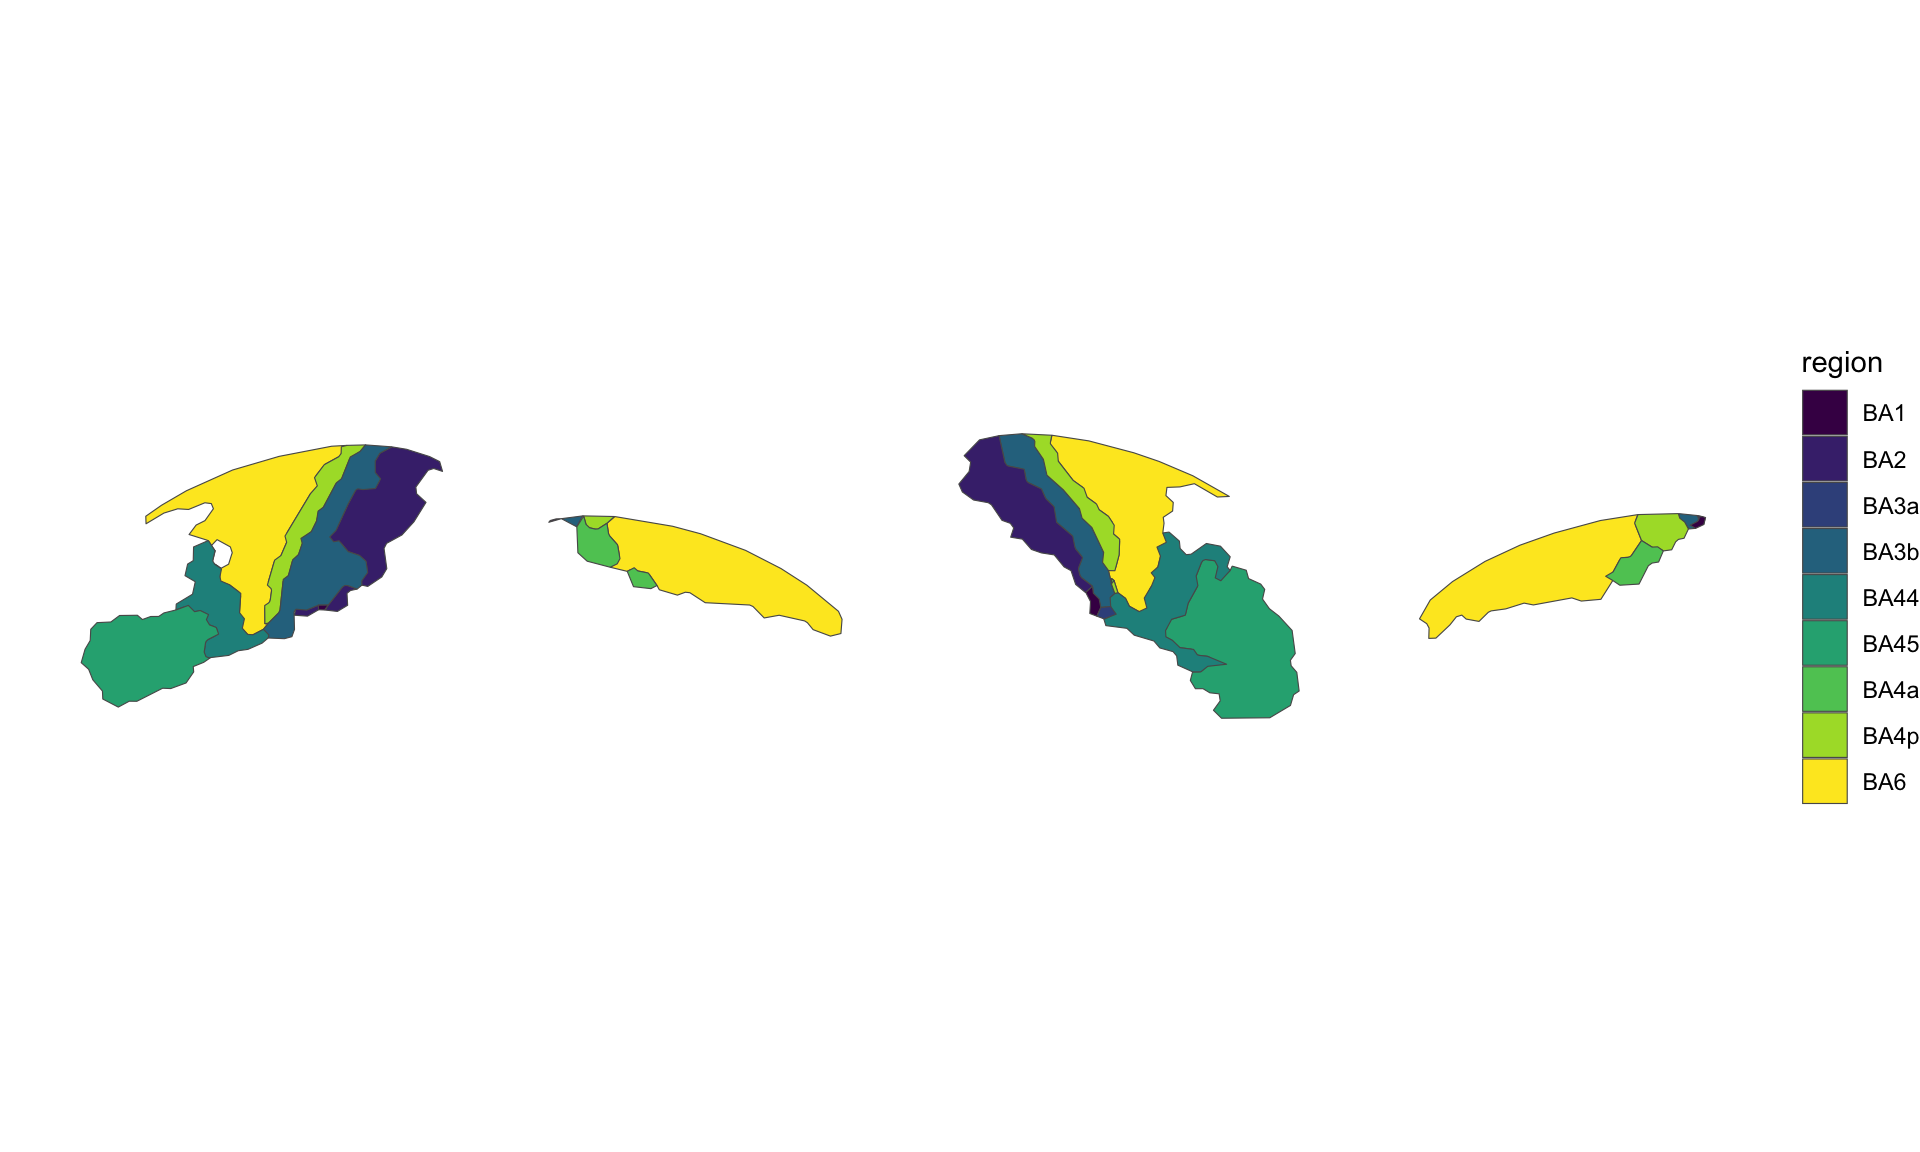
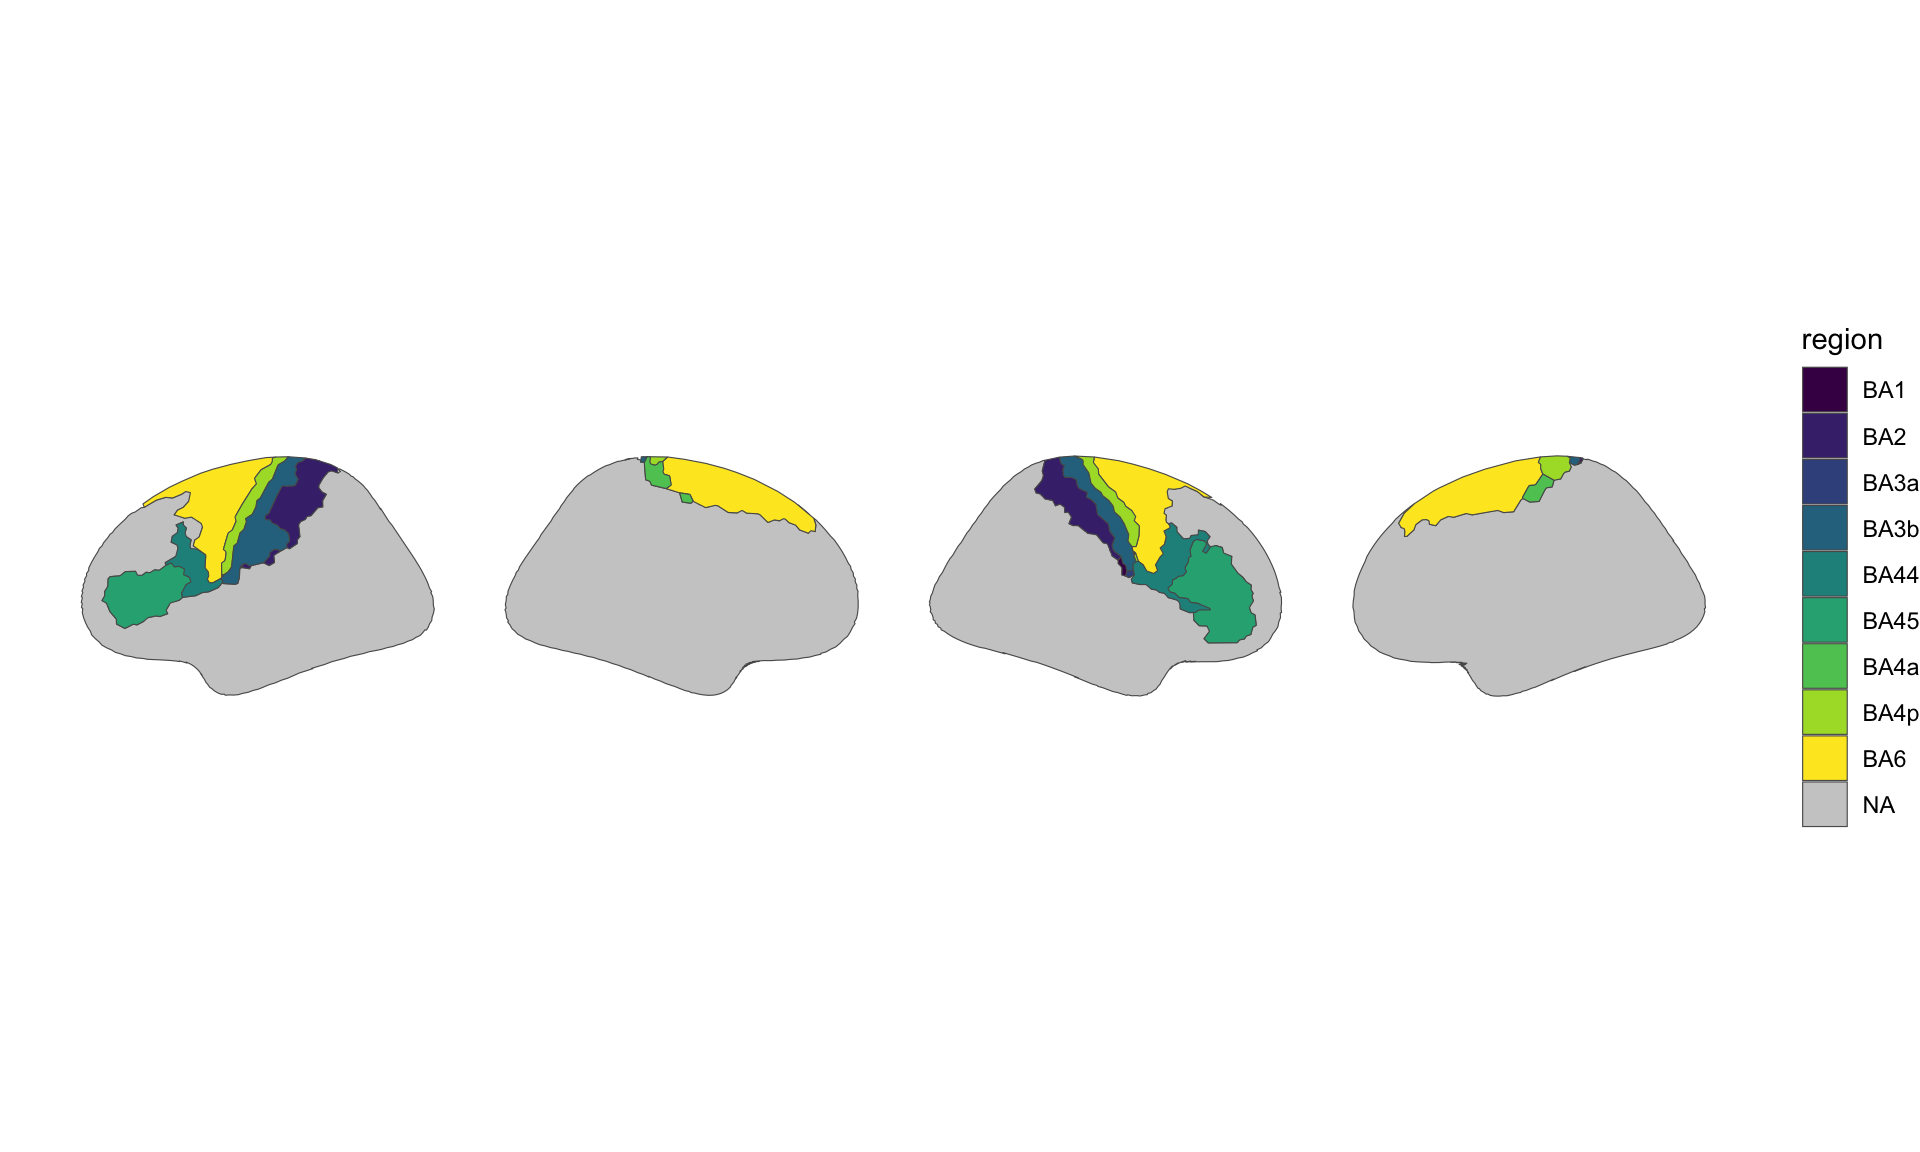
feat: give a sparse cortical parcellation a silhouette to sit on (#287)
Closes #285.

A parcellation built from a handful of `.label` files covers a fraction of the
mantle, and every other vertex was `NA`. An `NA` vertex produces no polygon, so
the atlas was a few shapes floating in empty space with nothing to say where on
the brain they sat.

Every vertex no label claims now becomes `lh_cortex` / `rh_cortex`, drawn behind
the parcellation. It is context rather than a region: never added to `$core`, so
it carries no colour and no legend entry. The label tutorial is re-knitted and
its figures show the difference.

Only where there is something to appear for: an annotation covering the mantle
via a medial-wall region is unchanged; a parcellation covering nothing is too,
so a file that failed to read still aborts rather than rendering as a plausible
grey brain; and a parcellation already using the name keeps it, with a warning,
since FreeSurfer ships `lh.cortex.label`.

The silhouette had to be `lh_cortex` rather than the volumetric `cortex_left`:
ggseg.formats reads a label's hemisphere off its prefix when laying views out,
and a label it cannot parse becomes a view of its own. `context_pattern()` was
therefore matching nothing on any surface atlas, so `exclude = context_pattern()`
in four tutorials excluded nothing; it now covers both spellings.

A sparse parcellation takes 1.6s rather than 0.2s, the silhouette being most of
the visible mesh. The projection always uses the one bundled 10,242-vertex mesh,
[…]

Changed region(s): [[0.0312, 0.375, 0.9062, 0.625], [0.9375, 0.2812, 1.0, 0.7188]]

diff --git a/NEWS.md b/NEWS.md
@@ -1,3 +1,32 @@
+# ggseg.extra 1.9.9.9079
+
+## New features
+
+- A cortical parcellation that covers only part of the mantle now gets the
+  rest of it as a silhouette to sit on (#285). A handful of `.label` files
+  used to produce an atlas of a few shapes floating in empty space, with
+  nothing to say where on the brain they were. Every vertex no label claims
+  becomes one region per hemisphere, `lh_cortex` / `rh_cortex`, drawn behind
+  the parcellation.
+
+  It is context, not a region: it is never added to `$core`, so it carries no
+  colour and no legend entry, exactly as the volumetric pipelines' silhouette
+  does. It applies to every cortical pipeline, but only appears where there is
+  something to appear for -- an annotation that covers the mantle via a
+  medial-wall region leaves nothing unlabelled and is unchanged. A
+  parcellation that covers *nothing* is also unchanged, so a file that failed
+  to read still errors rather than rendering as a plausible grey brain.
+
+- `context_pattern()` matches the surface spelling as well as the volumetric
+  one. It was `"^cortex"`, which matched the `cortex_left` that volumetric
+  pipelines produce and nothing at all on a surface atlas -- so
+  `exclude = context_pattern()` in the cortical, cerebellar, label and
+  neuromaps tutorials excluded nothing, and the prose promising it would
+  "leave the brain-outline geometry crisp" was untrue. Surface atlases label
+  the silhouette `lh_cortex` / `rh_cortex`, because ggseg.formats reads a
+  label's hemisphere off its prefix when laying views out, and
+  `context_pattern()` now covers both.
+
 # ggseg.extra 1.9.9.9078
 
 ## Documentation
@@ -33,7 +62,6 @@
   heavily.
 
 - The one remaining reference to the old package name `ggsegExtra` is gone.
-
 # ggseg.extra 1.9.9.9077
 
 ## Documentation
